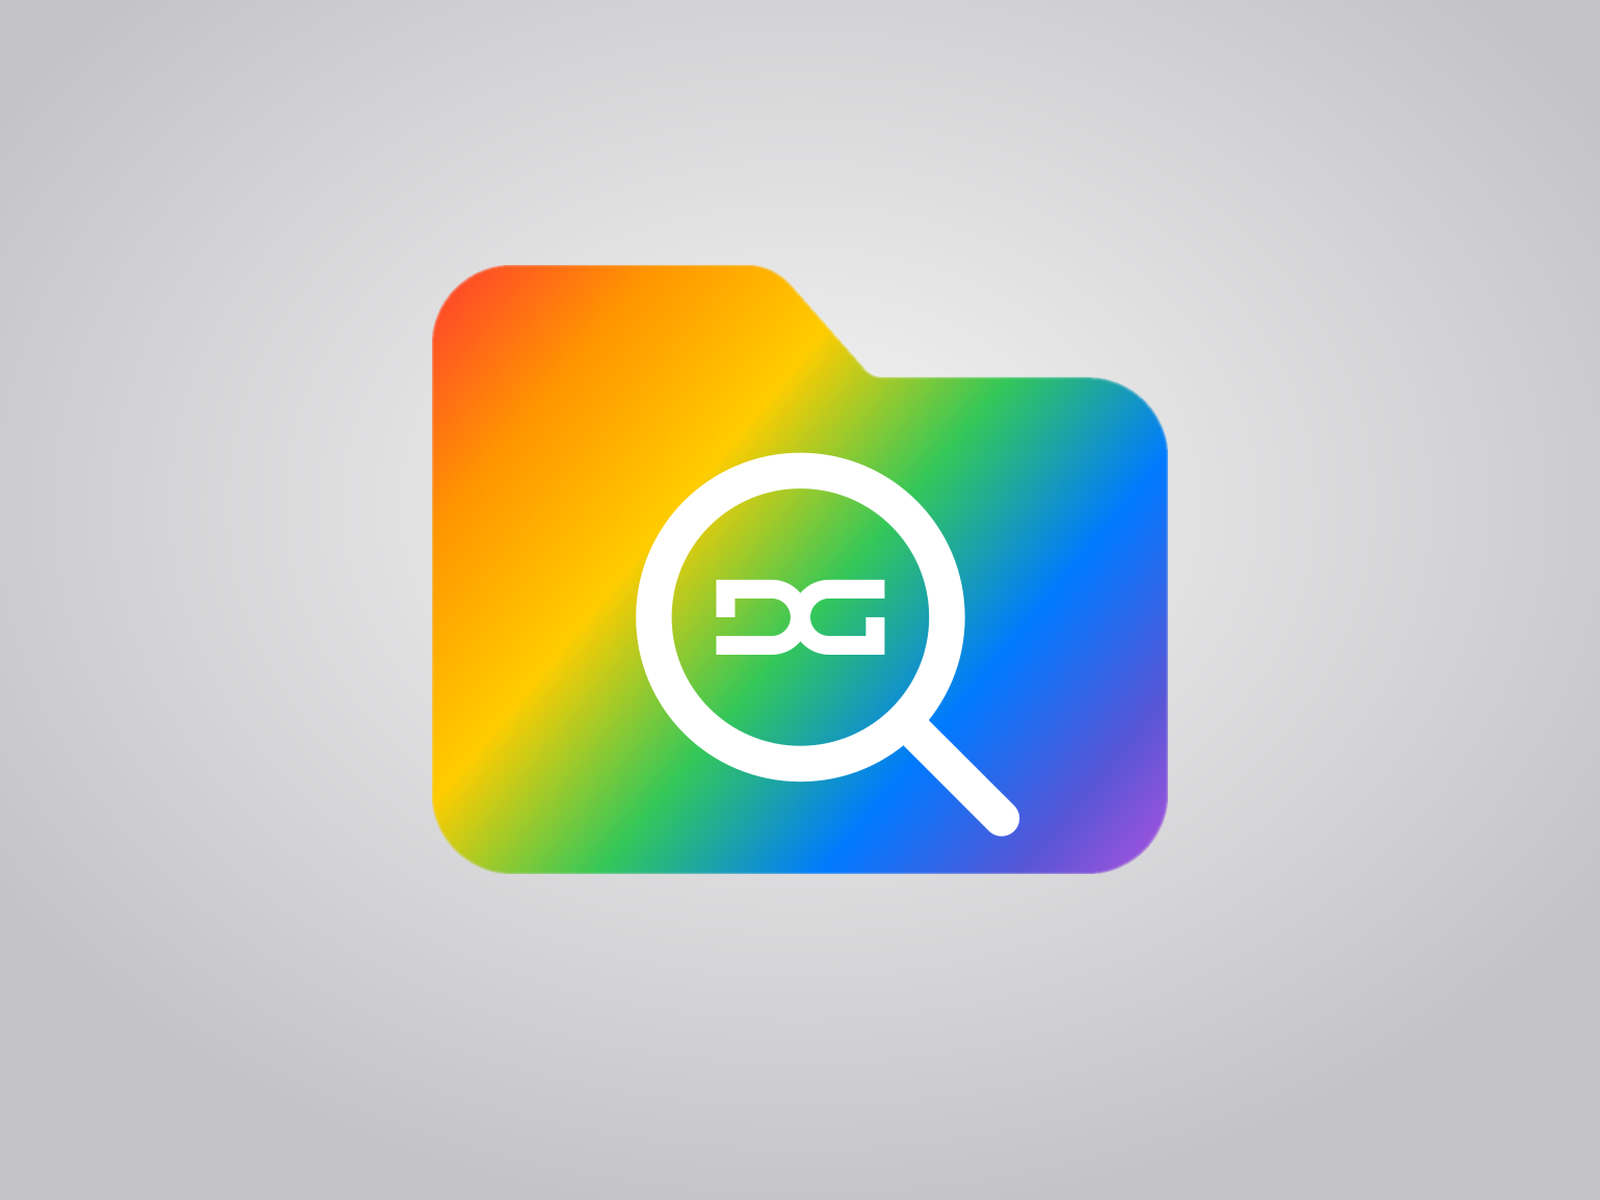
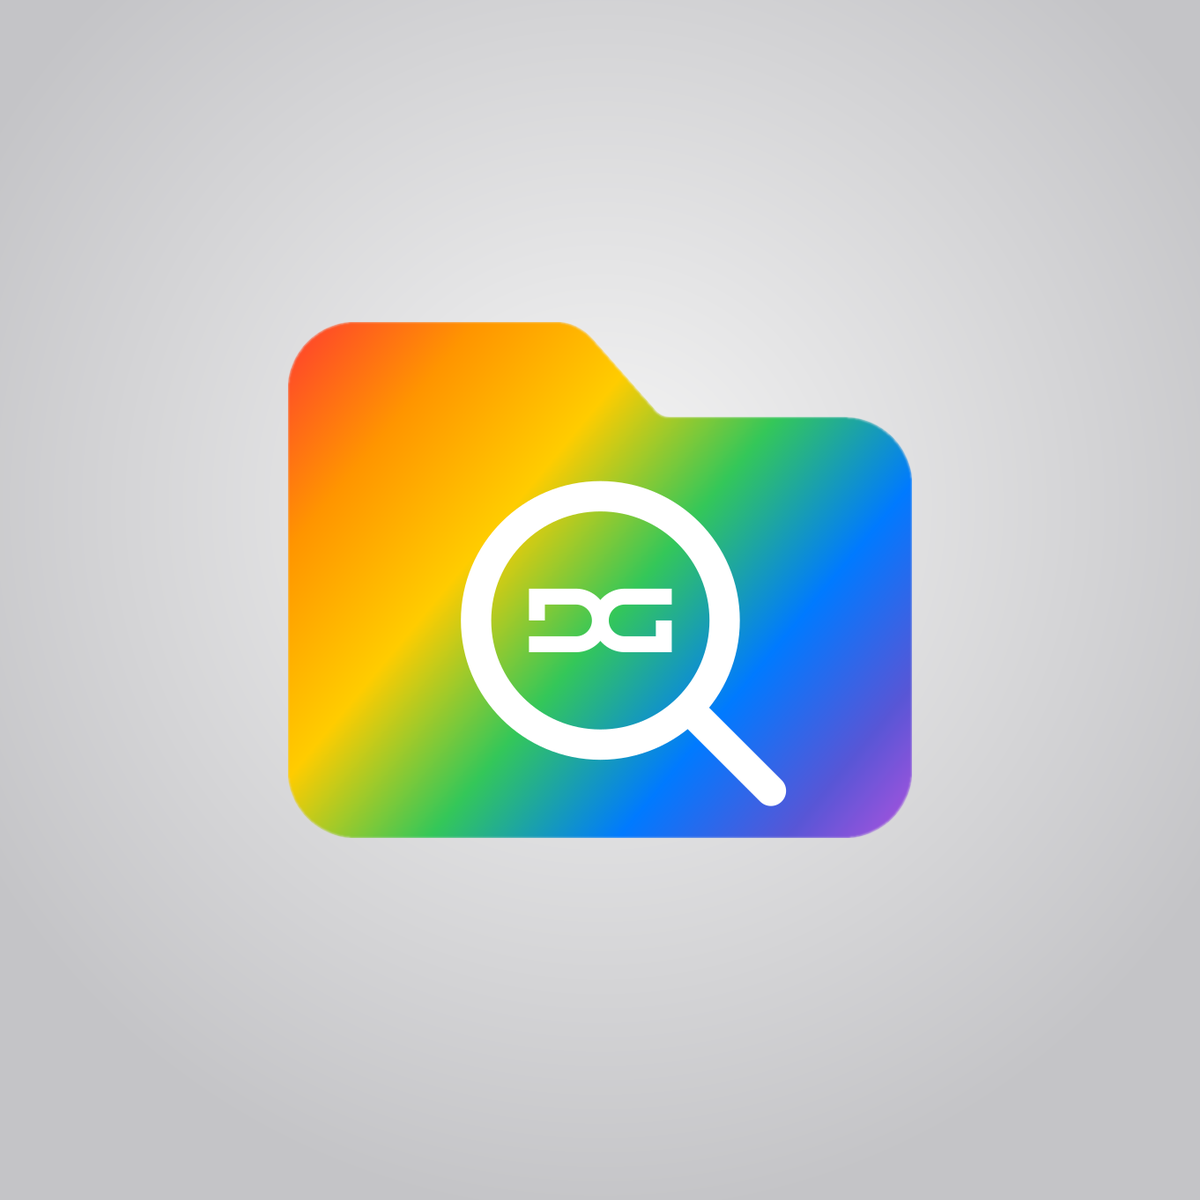
Add files via upload

Changed region(s): [[0.2158, 0.2158, 0.7708, 0.74]]

diff --git a/index.html b/index.html
@@ -1,7 +1,7 @@
 <!DOCTYPE html>
 <html lang="en"><head><meta charset="utf-8">
 <meta name="viewport" content="width=device-width, initial-scale=1, maximum-scale=1, user-scalable=no, viewport-fit=cover">
-<meta name="apple-mobile-web-app-capable" content="yes"><meta name="mobile-web-app-capable" content="yes"><meta name="theme-color" content="#202124"><meta name="apple-mobile-web-app-title" content="Googler"><meta property="og:type" content="website"><meta property="og:title" content="Googler"><meta property="og:url" content="https://garciamagic.github.io/googlecard/"><meta property="og:image" content="https://garciamagic.github.io/googlecard/preview.png"><meta property="og:image:width" content="1600"><meta property="og:image:height" content="1200"><meta name="twitter:card" content="summary_large_image"><meta name="twitter:image" content="https://garciamagic.github.io/googlecard/preview.png"><link rel="apple-touch-icon" href="icon-v5.png"><link rel="manifest" href="manifest.webmanifest">
+<meta name="apple-mobile-web-app-capable" content="yes"><meta name="mobile-web-app-capable" content="yes"><meta name="theme-color" content="#202124"><meta name="apple-mobile-web-app-title" content="Googler"><meta property="og:type" content="website"><meta property="og:title" content="Googler"><meta property="og:url" content="https://garciamagic.github.io/googlecard/"><meta property="og:image" content="https://garciamagic.github.io/googlecard/preview.png"><meta property="og:image:width" content="1200"><meta property="og:image:height" content="1200"><meta name="twitter:card" content="summary_large_image"><meta name="twitter:image" content="https://garciamagic.github.io/googlecard/preview.png"><link rel="apple-touch-icon" href="icon-v5.png"><link rel="manifest" href="manifest.webmanifest">
 <meta name="apple-mobile-web-app-status-bar-style" content="black-translucent">
 <title>Googler</title><!-- v2 cutout card -->
 <link rel='stylesheet' href='https://fonts.googleapis.com/css2?family=Outfit:wght@400;500;600&family=Anton&display=swap'>
@@ -343,7 +343,7 @@ html.lt .l2,html.lt .l3{color:#0b57d0}
   </div>
  </div>
 
- <div style="text-align:center;margin:30px 0 24px"><button class="btn" id="rst" style="margin:0">Restart routine</button><p class="hint" style="margin:14px 0 0;opacity:.6">Version 15</p></div>
+ <div style="text-align:center;margin:30px 0 24px"><button class="btn" id="rst" style="margin:0">Restart routine</button><p class="hint" style="margin:14px 0 0;opacity:.6">Version 16</p></div>
  </div>
 <div id="ins" hidden>
  <div class="ph"><h2>Instructions</h2><button class="btn" id="insx" type="button">Back</button></div>
